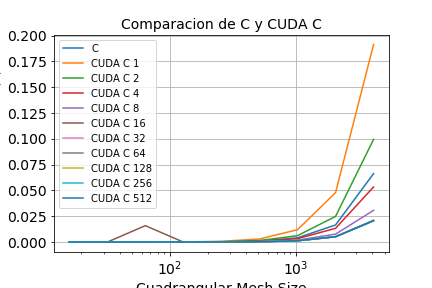
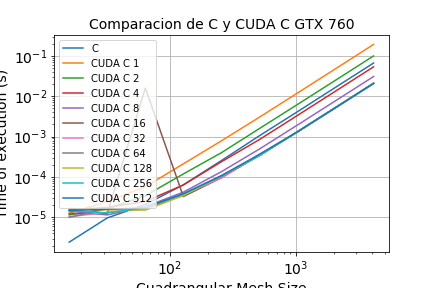
Se modifico la forma de presentar la ganancia obtenida entre los codigos.

Changed region(s): [[0.0, 0.0625, 0.9028, 0.875]]

diff --git a/src/COMPARACION/comparisons_GTX_760_simplereduction.py b/src/COMPARACION/comparisons_GTX_760_simplereduction.py
@@ -12,9 +12,9 @@ num_iter = 10 ** np.arange(2,6)
 
 shape=np.shape(num_blocks)
 #%%
-np.savetxt("mesh_size.txt", mesh_size, fmt="%s")
-np.savetxt("num_blocks.txt", num_blocks, fmt="%s")
-np.savetxt("num_iter.txt", num_iter, fmt="%s")
+#np.savetxt("mesh_size.txt", mesh_size, fmt="%s")
+#np.savetxt("num_blocks.txt", num_blocks, fmt="%s")
+#np.savetxt("num_iter.txt", num_iter, fmt="%s")
 
 
 #%%
@@ -42,19 +42,48 @@ time_cu_256 = np.array([1.47901e-05,1.2908e-05,1.7499e-05,3.7652e-05,0.000107454
 
 time_cu_512 = np.array([1.4734e-05,1.5965e-05,1.75018e-05,3.86848e-05,0.000107951,0.00036502,0.00131293,0.0052077,0.0207714])
 
-time_py = np.array([ ])
+time_py_1 = np.array([4.65727e-05,7.3247e-05,0.000178638,0.000602665,0.00227318,0.00823726,0.0319054,0.127004,0.50661 ])
+
+time_py_2 = np.array([4.43268e-05,5.80978e-05,0.000113652,0.000326431,0.0010656,0.00405179,0.0162745,0.0645982,0.256975 ])
+
+time_py_4 = np.array([4.20856e-05,4.95887e-05,7.91168e-05,0.000189748,0.000557544,0.00210381,0.00831499,0.0330819,0.13221 ])
+
+time_py_8 = np.array([4.08912e-05,4.14658e-05,5.80549e-05,0.000122433,0.000315595,0.001137,0.00441913,0.0175629,0.0700855 ])
+
+time_py_16 = np.array([4.19211e-05,3.97944e-05,4.95791e-05,9.28092e-05,0.00020185,0.000680604, 0.00259262,0.0102468,0.0410308 ])
+
+time_py_32 = np.array([4.45032e-05,4.02045e-05,4.51612e-05,7.98988e-05,0.000160725,0.000519016,0.00195418,0.00768237,0.0305965 ])
+
+time_py_64 = np.array([4.35758e-05,4.03476e-05,4.53019e-05,7.16019e-05,0.000139055,0.000434217,0.00161738,0.00635362,0.0254497 ])
+
+time_py_128 = np.array([4.23598e-05,4.06432e-05,4.35615e-05,7.20239e-05,0.000128264,0.000400155,0.00158705,0.00593013,0.0231288 ])
+
+time_py_256 = np.array([4.33493e-05,4.01855e-05,4.43912e-05,7.61127e-05,0.00012851,0.000399578,0.00147916,0.00579614,0.0232974 ])
+
+time_py_512 = np.array([4.11439e-05,4.30417e-05,4.64201e-05,7.55596e-05,0.000127473,0.000401514,0.00148567,0.00581523,0.0231366 ])
 
 #%%
-prom_1 = (time_c-time_cu_1)/time_cu_1 *100
-prom_2 = (time_c-time_cu_2)/time_cu_2 *100
-prom_4 = (time_c-time_cu_4)/time_cu_4 *100
-prom_8 = (time_c-time_cu_8)/time_cu_8 *100
-prom_16 = (time_c-time_cu_16)/time_cu_16 *100
-prom_32 = (time_c-time_cu_32)/time_cu_32 *100
-prom_64 = (time_c-time_cu_64)/time_cu_64 *100
-prom_128 = (time_c-time_cu_128)/time_cu_128 *100
-prom_256 = (time_c-time_cu_256)/time_cu_256 *100 
-prom_512 = (time_c-time_cu_512)/time_cu_512*100
+prom_1 = time_c /time_cu_1 
+prom_2 = time_c /time_cu_2 
+prom_4 = time_c /time_cu_4 
+prom_8 = time_c /time_cu_8 
+prom_16 = time_c /time_cu_16 
+prom_32 = time_c /time_cu_32 
+prom_64 = time_c /time_cu_64 
+prom_128 = time_c /time_cu_128
+prom_256 = time_c /time_cu_256
+prom_512 = time_c /time_cu_512
+
+prom_1_py = time_c /time_py_1 
+prom_2_py = time_c /time_py_2 
+prom_4_py = time_c /time_py_4 
+prom_8_py = time_c /time_py_8 
+prom_16_py = time_c /time_py_16 
+prom_32_py = time_c /time_py_32 
+prom_64_py = time_c /time_py_64 
+prom_128_py = time_c /time_py_128
+prom_256_py = time_c /time_py_256
+prom_512_py = time_c /time_py_512
 
 #%%
 plt.figure()
@@ -77,6 +106,7 @@ plt.ylabel('Time of execution (s)',fontsize=14)
 plt.xticks(fontsize=14)
 plt.yticks(fontsize=14)
 plt.xscale('log') 
+plt.yscale('log') 
 plt.grid(True)
 plt.savefig('time_c_cuda.png')
 plt.close
@@ -95,9 +125,9 @@ plt.plot(mesh_size,prom_256,label='CUDA C 256')
 plt.plot(mesh_size,prom_512,label='CUDA C 512')
 
 plt.legend()
-plt.title('Rendimiento de CUDA sobre C GTX 760',fontsize=14)
+plt.title('Spyder de CUDA sobre C GTX 760',fontsize=14)
 plt.xlabel('Cuadrangular Mesh Size',fontsize=14)
-plt.ylabel('Performance \%',fontsize=14)
+plt.ylabel('Spyder',fontsize=14)
 plt.xticks(fontsize=14)
 plt.yticks(fontsize=14)
 plt.xscale('log') 

diff --git a/src/PYTHON/simpleTests/simpleRed.py b/src/PYTHON/simpleTests/simpleRed.py
@@ -6,7 +6,7 @@ import pycuda.autoinit
 import argparse
 
 
-zm_mod = pycuda.driver.module_from_file('/users/fogliate/IB/Direccion/PI/LB_GPU/LBCUDA_Test/ptx/objects-Release/cudaTestPTX/zerothMoment.ptx')
+zm_mod = pycuda.driver.module_from_file('/users/coronelth/Seguir_Proyecto/LBCUDA_Test/ptx/objects-Release/cudaTestPTX/zerothMoment.ptx')
 
 zm_ker = zm_mod.get_function('zerothMoment')
 
